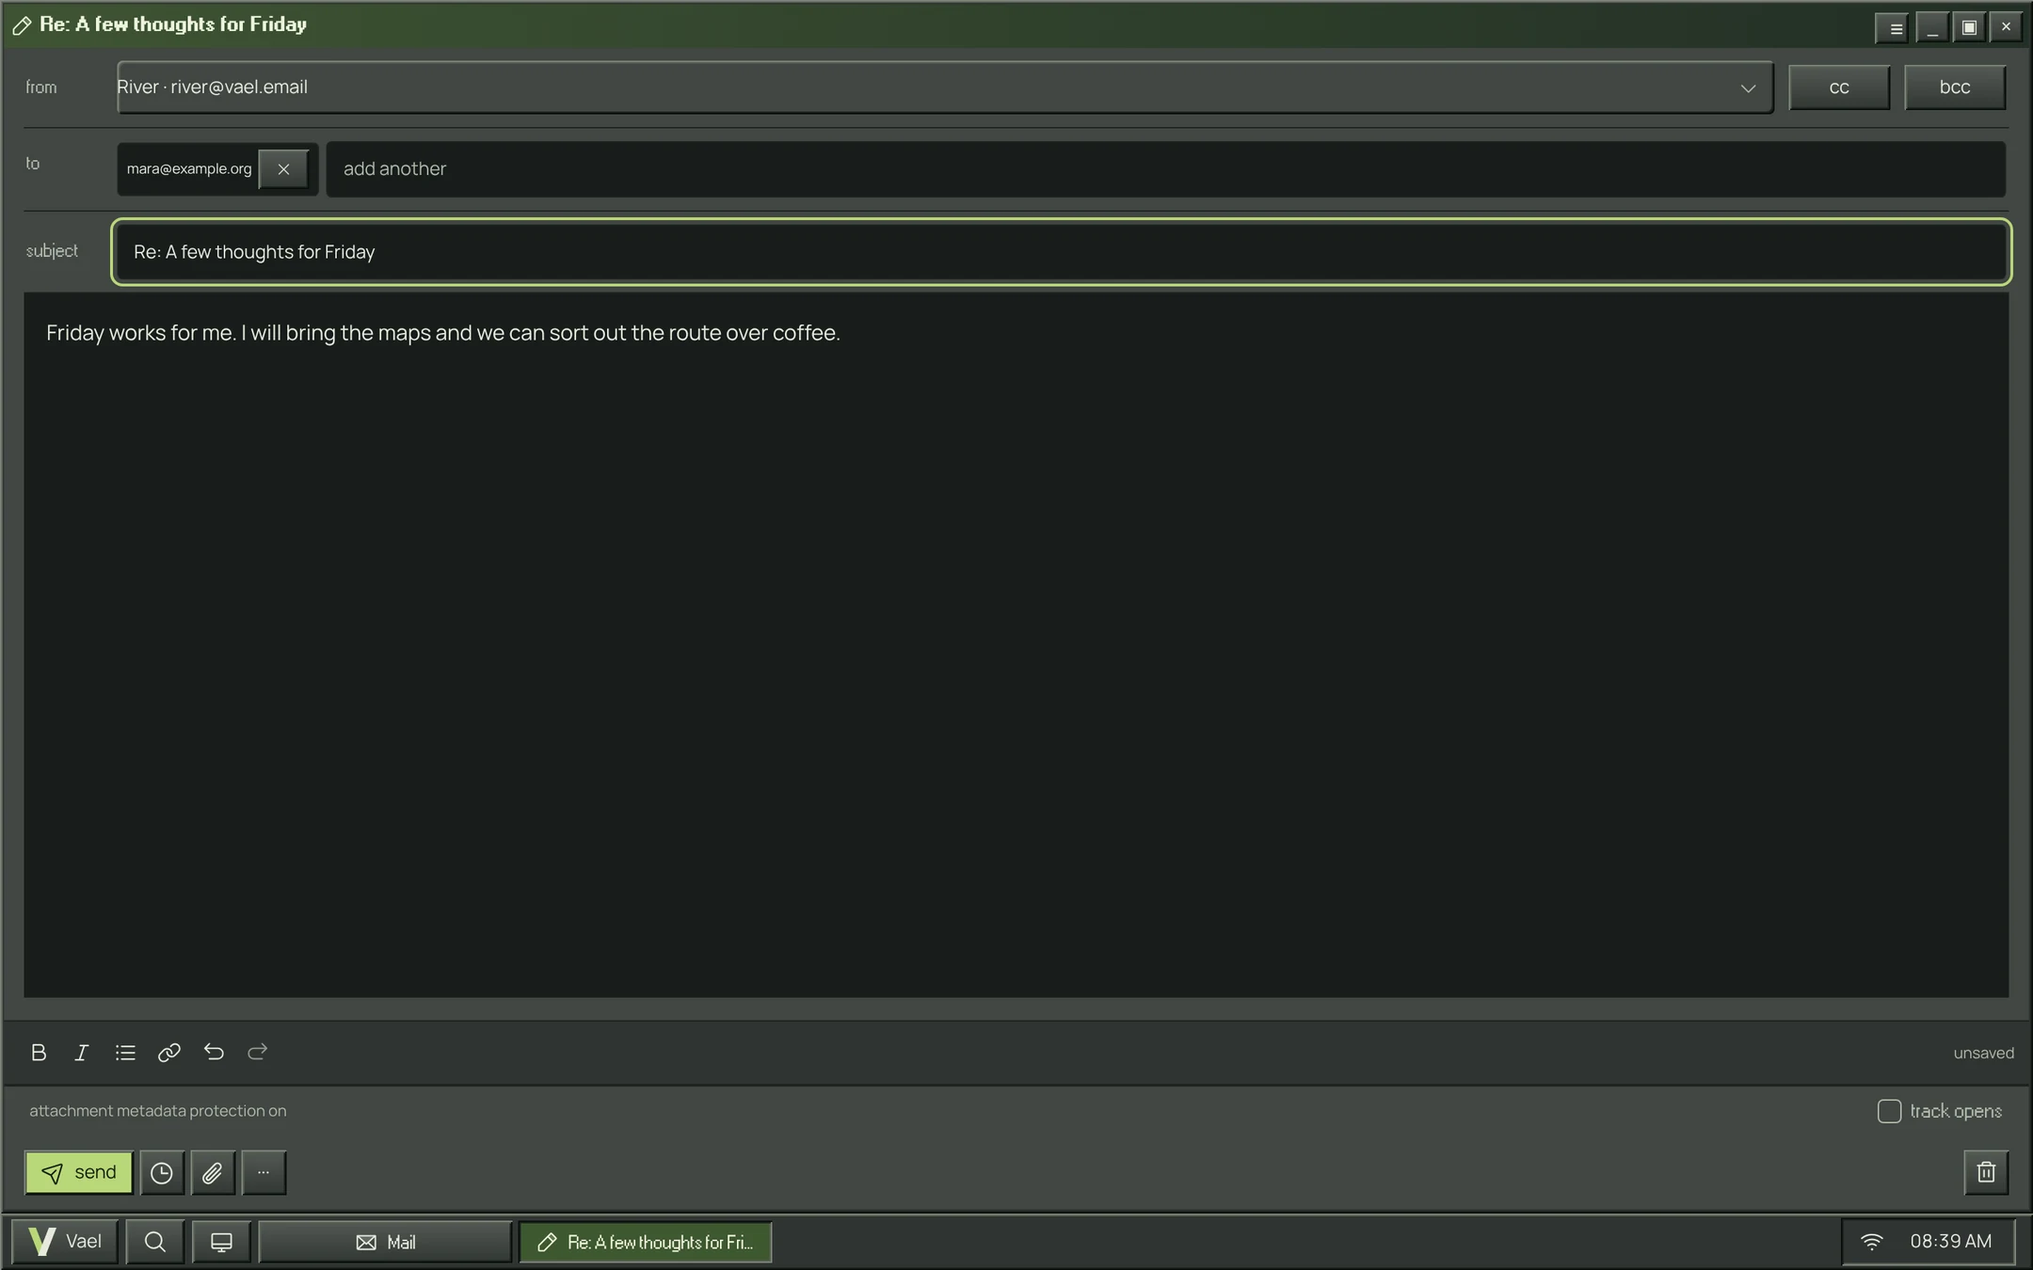
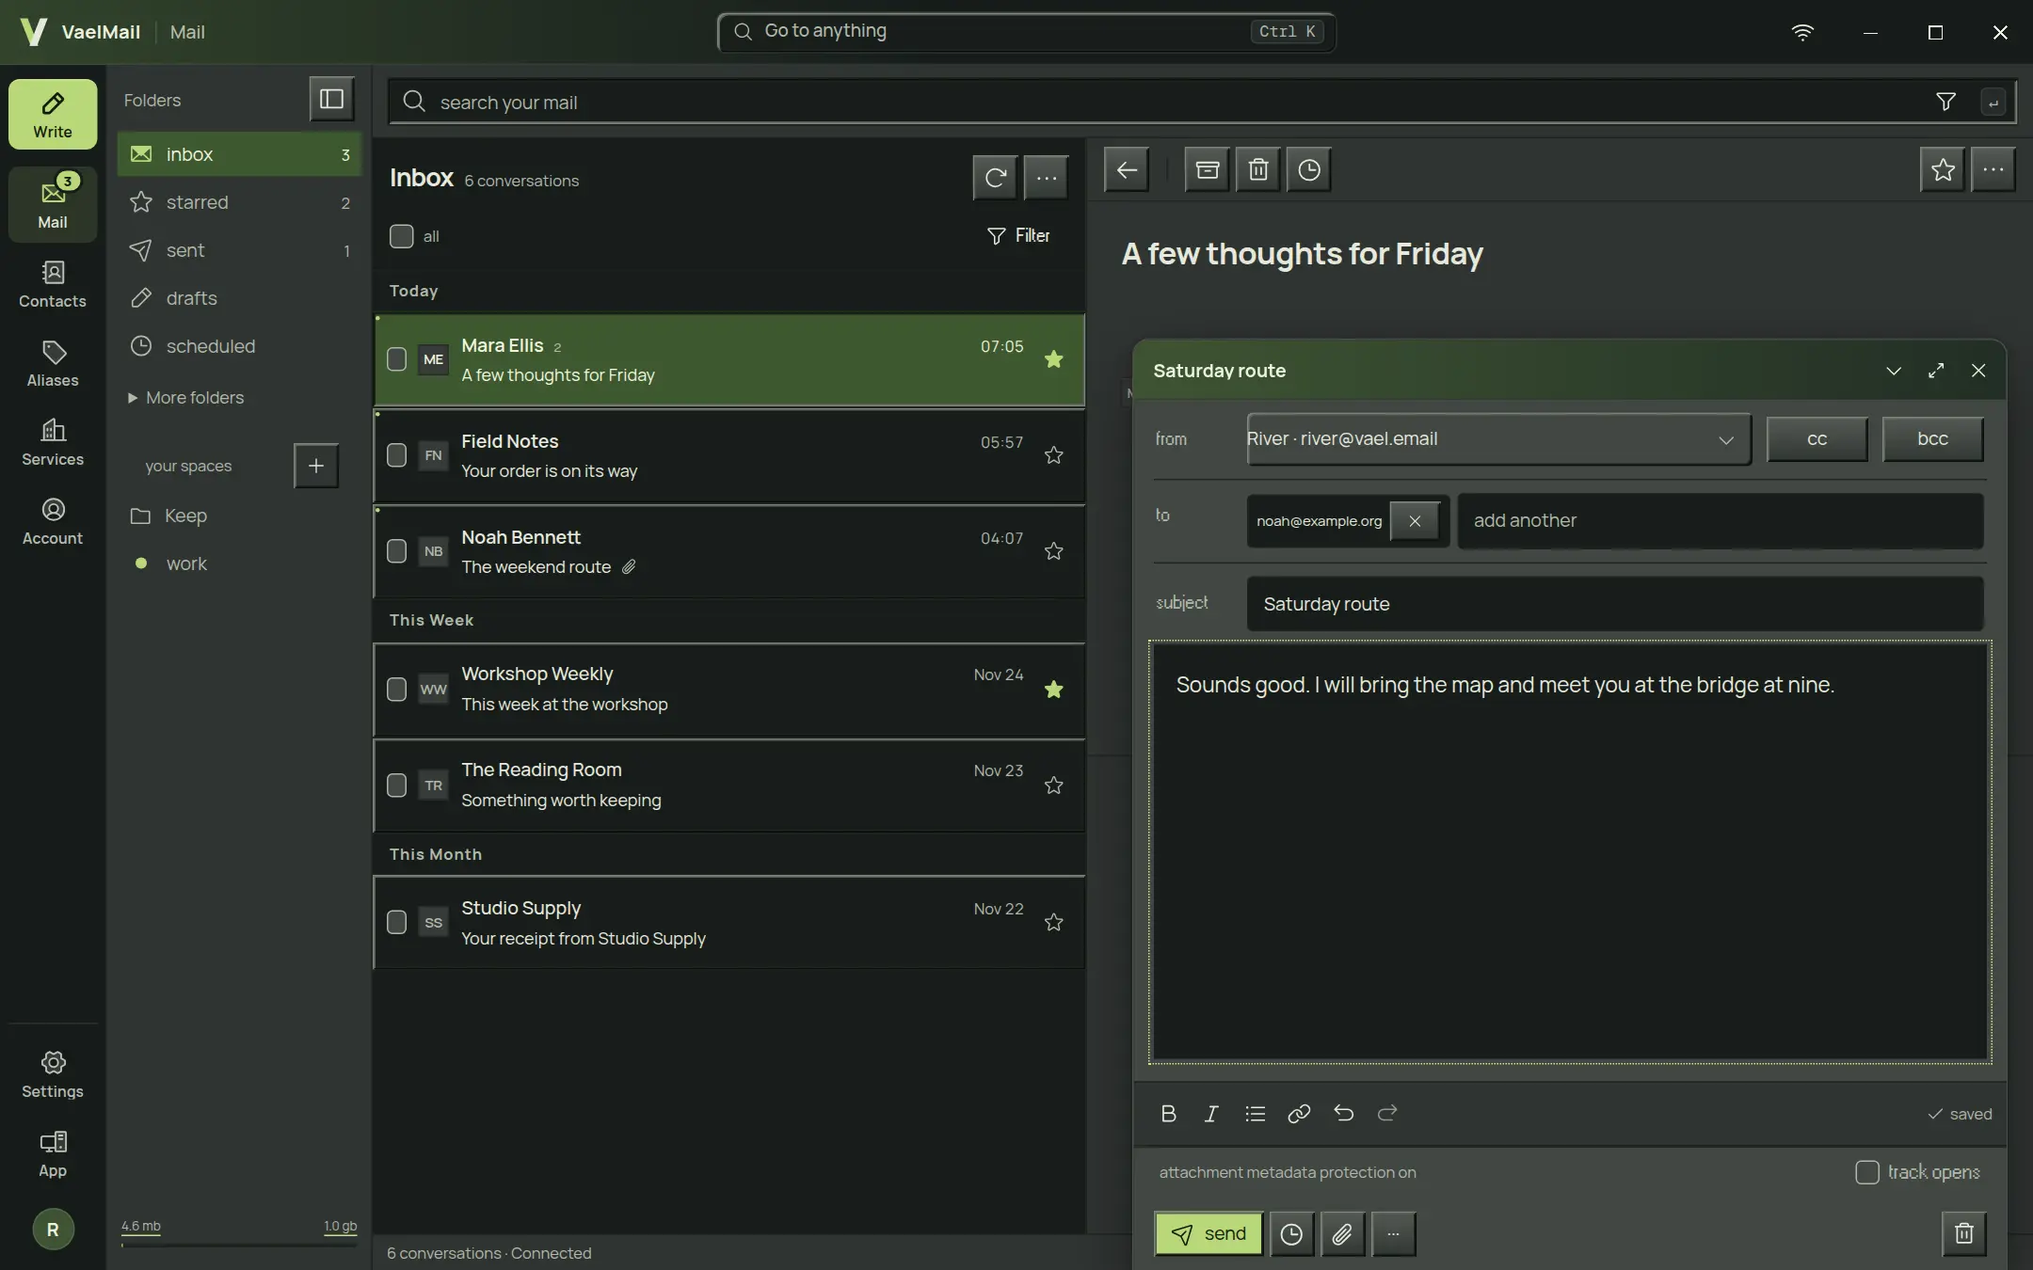
update readme screenshots

diff --git a/src/lib/bridge/mock.ts b/src/lib/bridge/mock.ts
@@ -20,6 +20,27 @@ const desktopSettings = {
   proxy: { mode: "system", url: "" },
 };
 
+function emptyDraft(id: string) {
+  return {
+    id,
+    revision: 1,
+    identityId: "i1",
+    to: [] as unknown[],
+    cc: [] as unknown[],
+    bcc: [] as unknown[],
+    subject: "",
+    html: "",
+    editor: null as unknown,
+    plain: false,
+    attachmentIds: [] as string[],
+    threadId: null as string | null,
+    quote: "",
+    updatedAt: new Date().toISOString(),
+  };
+}
+
+const drafts = new Map<string, ReturnType<typeof emptyDraft>>();
+
 function respond(status: number, value: unknown) {
   return { status, value };
 }
@@ -50,40 +71,30 @@ function request(args: Args) {
     return respond(200, { services: [], suggestions: [] });
   if (route === "/api/webmail/sync") return respond(200, {});
   if (route === "/api/webmail/drafts" && method === "POST") {
-    return respond(201, {
-      id: "00000000-0000-4000-8000-000000000001",
-      revision: 1,
-      identityId: "i1",
-      to: [],
-      cc: [],
-      bcc: [],
-      subject: "",
-      html: "",
-      editor: null,
-      plain: false,
-      attachmentIds: [],
-      threadId: null,
-      quote: "",
-      updatedAt: new Date().toISOString(),
-    });
+    const draft = emptyDraft("00000000-0000-4000-8000-00000000000" + (drafts.size + 1));
+    drafts.set(draft.id, draft);
+    return respond(201, draft);
   }
   if (/^\/api\/webmail\/drafts\/[^/]+$/.test(route)) {
-    return respond(200, {
-      id: route.split("/").at(-1),
-      revision: 1,
-      identityId: "i1",
-      to: [],
-      cc: [],
-      bcc: [],
-      subject: "",
-      html: "",
-      editor: null,
-      plain: false,
-      attachmentIds: [],
-      threadId: null,
-      quote: "",
-      updatedAt: new Date().toISOString(),
-    });
+    const id = route.split("/").at(-1) ?? "";
+    const stored = drafts.get(id) ?? emptyDraft(id);
+    if (method === "PATCH") {
+      const body = (args?.body ?? {}) as Partial<typeof stored>;
+      const next = {
+        ...stored,
+        ...body,
+        id,
+        revision: stored.revision + 1,
+        updatedAt: new Date().toISOString(),
+      };
+      drafts.set(id, next);
+      return respond(200, next);
+    }
+    if (method === "DELETE") {
+      drafts.delete(id);
+      return respond(200, {});
+    }
+    return respond(200, stored);
   }
   if (/^\/api\/webmail\/drafts\/[^/]+\/files$/.test(route)) return respond(200, []);
   if (route === "/api/account/security-checkup") return respond(200, { items: [] });
@@ -124,7 +135,7 @@ export function mockInvoke(command: string, args: Args): unknown {
       return desktopSettings;
     case "app_info":
       return {
-        version: "0.1.0",
+        version: "0.2.1",
         os: "linux",
         arch: "x86_64",
         webview: "browser",

diff --git a/src/lib/bridge/events.ts b/src/lib/bridge/events.ts
@@ -25,10 +25,16 @@ export type BridgeEvents = {
   "upload:progress": { id: string; percent: number };
 };
 
+const preview: Partial<BridgeEvents> = { "realtime:status": "connected" };
+
 export function on<K extends keyof BridgeEvents>(
   name: K,
   handler: (payload: BridgeEvents[K]) => void,
 ): Promise<UnlistenFn> {
-  if (!native) return Promise.resolve(() => undefined);
+  if (!native) {
+    const value = preview[name];
+    if (value !== undefined) queueMicrotask(() => handler(value as BridgeEvents[K]));
+    return Promise.resolve(() => undefined);
+  }
   return listen<BridgeEvents[K]>(name, (event) => handler(event.payload));
 }

diff --git a/installer/ui/app.js b/installer/ui/app.js
@@ -119,7 +119,7 @@ async function start() {
     const platform = new URLSearchParams(location.search).get("platform") || "windows";
     state.info = {
       platform,
-      version: "0.2.0",
+      version: "0.2.1",
       defaultDir: "C:\\Users\\you\\AppData\\Local\\Programs\\VaelMail",
       installed: null,
       payload: true,

diff --git a/src/styles/shell.css b/src/styles/shell.css
@@ -1265,7 +1265,8 @@ body.vael98 [data-sonner-toaster] {
 
 body.vael98 .vx-app .wm-account,
 body.vael98 .vx-app .v98-new-message,
-body.vael98 .vx-app .wm-command-hint {
+body.vael98 .vx-app .wm-command-hint,
+body.vael98 .vx-app button:has(.wm-key) {
   display: none;
 }
 

diff --git a/README.md b/README.md
@@ -6,7 +6,7 @@
 
 The [VaelMail](https://vaelmail.com) desktop app for Windows, macOS and Linux.
 
-[Download](https://github.com/vaelmail/vaelmail-desktop/releases/latest) · [Website](https://vaelmail.com) · [Architecture](docs/architecture.md)
+[Download](https://github.com/vaelmail/vaelmail-desktop/releases/latest) · [Website](https://vaelmail.com) · [Screenshots](#gallery) · [Architecture](docs/architecture.md)
 
 <img src="docs/screenshots/mail.webp" alt="VaelMail Desktop showing the inbox">
 
@@ -35,14 +35,14 @@ The script picks the right build for your system. Run it again to update, reinst
 
 Pass options after `bash -s --`, for example `curl -fsSL https://vaelmail.com/desktop/install.sh | bash -s -- --uninstall`.
 
-| Option        | Effect                                                     |
-| ------------- | ---------------------------------------------------------- |
-| `--yes`       | Use the defaults without asking                            |
-| `--appimage`  | Linux only. Install the AppImage, no sudo needed           |
-| `--package`   | Linux only. Install the `.deb` or `.rpm`                   |
-| `--uninstall` | Remove VaelMail                                            |
+| Option        | Effect                                                      |
+| ------------- | ----------------------------------------------------------- |
+| `--yes`       | Use the defaults without asking                             |
+| `--appimage`  | Linux only. Install the AppImage, no sudo needed            |
+| `--package`   | Linux only. Install the `.deb` or `.rpm`                    |
+| `--uninstall` | Remove VaelMail                                             |
 | `--purge`     | With `--uninstall`, also delete settings, cache and sign-in |
-| `--no-launch` | Don't open VaelMail after installing                       |
+| `--no-launch` | Don't open VaelMail after installing                        |
 
 On Windows, `-Quiet` installs without the setup window and `-Uninstall` removes the app:
 
@@ -54,14 +54,14 @@ On Windows, `-Quiet` installs without the setup window and `-Uninstall` removes 
 
 ## Download
 
-| Platform                    | Installer                                                                                                                                                                                                                                                                                                                  | Portable                                                                                                              |
-| --------------------------- | -------------------------------------------------------------------------------------------------------------------------------------------------------------------------------------------------------------------------------------------------------------------------------------------------------------------------- | --------------------------------------------------------------------------------------------------------------------- |
-| Windows 10/11, x64          | [.exe](https://github.com/vaelmail/vaelmail-desktop/releases/latest/download/VaelMail-windows-x64-setup.exe)                                                                                                                                                                                                               | [.zip](https://github.com/vaelmail/vaelmail-desktop/releases/latest/download/VaelMail-windows-x64-portable.zip)         |
-| Windows 11, arm64           | [.exe](https://github.com/vaelmail/vaelmail-desktop/releases/latest/download/VaelMail-windows-arm64-setup.exe)                                                                                                                                                                                                             | [.zip](https://github.com/vaelmail/vaelmail-desktop/releases/latest/download/VaelMail-windows-arm64-portable.zip)       |
-| macOS 11+, Apple silicon    | [.dmg](https://github.com/vaelmail/vaelmail-desktop/releases/latest/download/VaelMail-macos-apple-silicon.dmg)                                                                                                                                                                                                             | [.zip](https://github.com/vaelmail/vaelmail-desktop/releases/latest/download/VaelMail-macos-apple-silicon-portable.zip) |
-| macOS 11+, Intel            | [.dmg](https://github.com/vaelmail/vaelmail-desktop/releases/latest/download/VaelMail-macos-intel.dmg)                                                                                                                                                                                                                     | [.zip](https://github.com/vaelmail/vaelmail-desktop/releases/latest/download/VaelMail-macos-intel-portable.zip)         |
-| Linux, x64                  | [AppImage](https://github.com/vaelmail/vaelmail-desktop/releases/latest/download/VaelMail-linux-x64.AppImage) · [.deb](https://github.com/vaelmail/vaelmail-desktop/releases/latest/download/VaelMail-linux-x64.deb) · [.rpm](https://github.com/vaelmail/vaelmail-desktop/releases/latest/download/VaelMail-linux-x64.rpm)       | [.tar.gz](https://github.com/vaelmail/vaelmail-desktop/releases/latest/download/VaelMail-linux-x64-portable.tar.gz)     |
-| Linux, arm64                | [AppImage](https://github.com/vaelmail/vaelmail-desktop/releases/latest/download/VaelMail-linux-arm64.AppImage) · [.deb](https://github.com/vaelmail/vaelmail-desktop/releases/latest/download/VaelMail-linux-arm64.deb) · [.rpm](https://github.com/vaelmail/vaelmail-desktop/releases/latest/download/VaelMail-linux-arm64.rpm) | [.tar.gz](https://github.com/vaelmail/vaelmail-desktop/releases/latest/download/VaelMail-linux-arm64-portable.tar.gz)   |
+| Platform                 | Installer                                                                                                                                                                                                                                                                                                                         | Portable                                                                                                                |
+| ------------------------ | --------------------------------------------------------------------------------------------------------------------------------------------------------------------------------------------------------------------------------------------------------------------------------------------------------------------------------- | ----------------------------------------------------------------------------------------------------------------------- |
+| Windows 10/11, x64       | [.exe](https://github.com/vaelmail/vaelmail-desktop/releases/latest/download/VaelMail-windows-x64-setup.exe)                                                                                                                                                                                                                      | [.zip](https://github.com/vaelmail/vaelmail-desktop/releases/latest/download/VaelMail-windows-x64-portable.zip)         |
+| Windows 11, arm64        | [.exe](https://github.com/vaelmail/vaelmail-desktop/releases/latest/download/VaelMail-windows-arm64-setup.exe)                                                                                                                                                                                                                    | [.zip](https://github.com/vaelmail/vaelmail-desktop/releases/latest/download/VaelMail-windows-arm64-portable.zip)       |
+| macOS 11+, Apple silicon | [.dmg](https://github.com/vaelmail/vaelmail-desktop/releases/latest/download/VaelMail-macos-apple-silicon.dmg)                                                                                                                                                                                                                    | [.zip](https://github.com/vaelmail/vaelmail-desktop/releases/latest/download/VaelMail-macos-apple-silicon-portable.zip) |
+| macOS 11+, Intel         | [.dmg](https://github.com/vaelmail/vaelmail-desktop/releases/latest/download/VaelMail-macos-intel.dmg)                                                                                                                                                                                                                            | [.zip](https://github.com/vaelmail/vaelmail-desktop/releases/latest/download/VaelMail-macos-intel-portable.zip)         |
+| Linux, x64               | [AppImage](https://github.com/vaelmail/vaelmail-desktop/releases/latest/download/VaelMail-linux-x64.AppImage) · [.deb](https://github.com/vaelmail/vaelmail-desktop/releases/latest/download/VaelMail-linux-x64.deb) · [.rpm](https://github.com/vaelmail/vaelmail-desktop/releases/latest/download/VaelMail-linux-x64.rpm)       | [.tar.gz](https://github.com/vaelmail/vaelmail-desktop/releases/latest/download/VaelMail-linux-x64-portable.tar.gz)     |
+| Linux, arm64             | [AppImage](https://github.com/vaelmail/vaelmail-desktop/releases/latest/download/VaelMail-linux-arm64.AppImage) · [.deb](https://github.com/vaelmail/vaelmail-desktop/releases/latest/download/VaelMail-linux-arm64.deb) · [.rpm](https://github.com/vaelmail/vaelmail-desktop/releases/latest/download/VaelMail-linux-arm64.rpm) | [.tar.gz](https://github.com/vaelmail/vaelmail-desktop/releases/latest/download/VaelMail-linux-arm64-portable.tar.gz)   |
 
 The installers and the AppImage update themselves. `.deb` and `.rpm` update with a new package. Portable builds don't update. To upgrade one, replace the app and keep the `VaelMail Data` folder.
 
@@ -76,17 +76,8 @@ Everything from vaelmail.com is here: mail, contacts, aliases, domains, security
 - **Drag and drop** attachments in and out of messages.
 - **Proxy support**, including SOCKS5 for Tor.
 - **Portable mode** that runs from a USB stick and writes nothing to the registry or keychain.
-
-<table>
-  <tr>
-    <td><img src="docs/screenshots/start-menu.webp" alt="Start menu"></td>
-    <td><img src="docs/screenshots/compose.webp" alt="Writing a message"></td>
-  </tr>
-  <tr>
-    <td><img src="docs/screenshots/mail-light.webp" alt="Light theme"></td>
-    <td><img src="docs/screenshots/desktop-settings.webp" alt="Desktop settings"></td>
-  </tr>
-</table>
+- **Go to anything.** <kbd>Ctrl</kbd> <kbd>K</kbd> (<kbd>Cmd</kbd> <kbd>K</kbd> on a Mac) opens any folder, page or action. <kbd>Ctrl</kbd> <kbd>1</kbd> to <kbd>6</kbd> switch between Mail, Contacts, Aliases, Services, Account and Settings.
+- **Keeps working under heavy traffic.** When vaelmail.com asks for a security check, the app solves it in the background. During an attack it asks for a short code, or continues by itself after 30 seconds.
 
 ## Signing in
 
@@ -125,21 +116,53 @@ cargo test --workspace
 
 <br>
 
-| Path                 | Contents                                                |
-| -------------------- | ------------------------------------------------------- |
-| `src`                | React interface: desktop shell, apps, mail, account     |
-| `src/lib/bridge`     | Typed calls from the interface into Rust                |
-| `crates/vael-client` | HTTP and WebSocket client, session, edge challenge      |
-| `crates/vael-store`  | Keychain, encrypted cache, settings                     |
-| `src-tauri`          | Tauri 2 app: commands, tray, notifications, updater     |
-| `install.sh`         | Installer for Linux and macOS                           |
-| `install.ps1`        | Installer for Windows                                   |
+| Path                 | Contents                                             |
+| -------------------- | ---------------------------------------------------- |
+| `src`                | React interface: app shell, views, mail, account     |
+| `src/lib/bridge`     | Typed calls from the interface into Rust             |
+| `crates/vael-client` | HTTP and WebSocket client, session, edge challenge   |
+| `crates/vael-store`  | Keychain, encrypted cache, settings                  |
+| `src-tauri`          | Tauri 2 app: commands, tray, notifications, updater  |
+| `installer`          | VaelMail Setup, the installer app around each bundle |
+| `install.sh`         | Installer for Linux and macOS                        |
+| `install.ps1`        | Installer for Windows                                |
 
 `src/styles/vael98` is generated from the web app by `pnpm sync:styles`. Edit the styles there.
 
 Pushing a `vX.Y.Z` tag makes GitHub Actions build, sign and publish a release for every platform.
 
 </details>
+
+## Gallery
+
+<table>
+  <tr>
+    <td width="50%"><img src="docs/screenshots/mail-light.webp" alt="Inbox in the light theme"><br><sub>Light theme</sub></td>
+    <td width="50%"><img src="docs/screenshots/compose.webp" alt="Writing a message in the compose panel"><br><sub>Writing a message</sub></td>
+  </tr>
+  <tr>
+    <td width="50%"><img src="docs/screenshots/go-to-anything.webp" alt="Go to anything palette"><br><sub>Go to anything, <kbd>Ctrl</kbd> <kbd>K</kbd></sub></td>
+    <td width="50%"><img src="docs/screenshots/aliases.webp" alt="Aliases"><br><sub>Aliases</sub></td>
+  </tr>
+  <tr>
+    <td width="50%"><img src="docs/screenshots/account.webp" alt="Account overview"><br><sub>Account</sub></td>
+    <td width="50%"><img src="docs/screenshots/app-settings.webp" alt="App settings for notifications"><br><sub>App settings</sub></td>
+  </tr>
+  <tr>
+    <td width="50%"><img src="docs/screenshots/sign-in.webp" alt="Sign-in screen"><br><sub>Sign in</sub></td>
+    <td width="50%"><img src="docs/screenshots/security-check.webp" alt="Security check shown during heavy traffic"><br><sub>Security check during heavy traffic</sub></td>
+  </tr>
+</table>
+
+**VaelMail Setup**, the Windows installer. macOS and Linux have their own versions.
+
+<table>
+  <tr>
+    <td width="33%"><img src="docs/screenshots/setup.webp" alt="VaelMail Setup, install options"></td>
+    <td width="33%"><img src="docs/screenshots/setup-progress.webp" alt="VaelMail Setup installing"></td>
+    <td width="33%"><img src="docs/screenshots/setup-done.webp" alt="VaelMail Setup finished"></td>
+  </tr>
+</table>
 
 ## License
 
